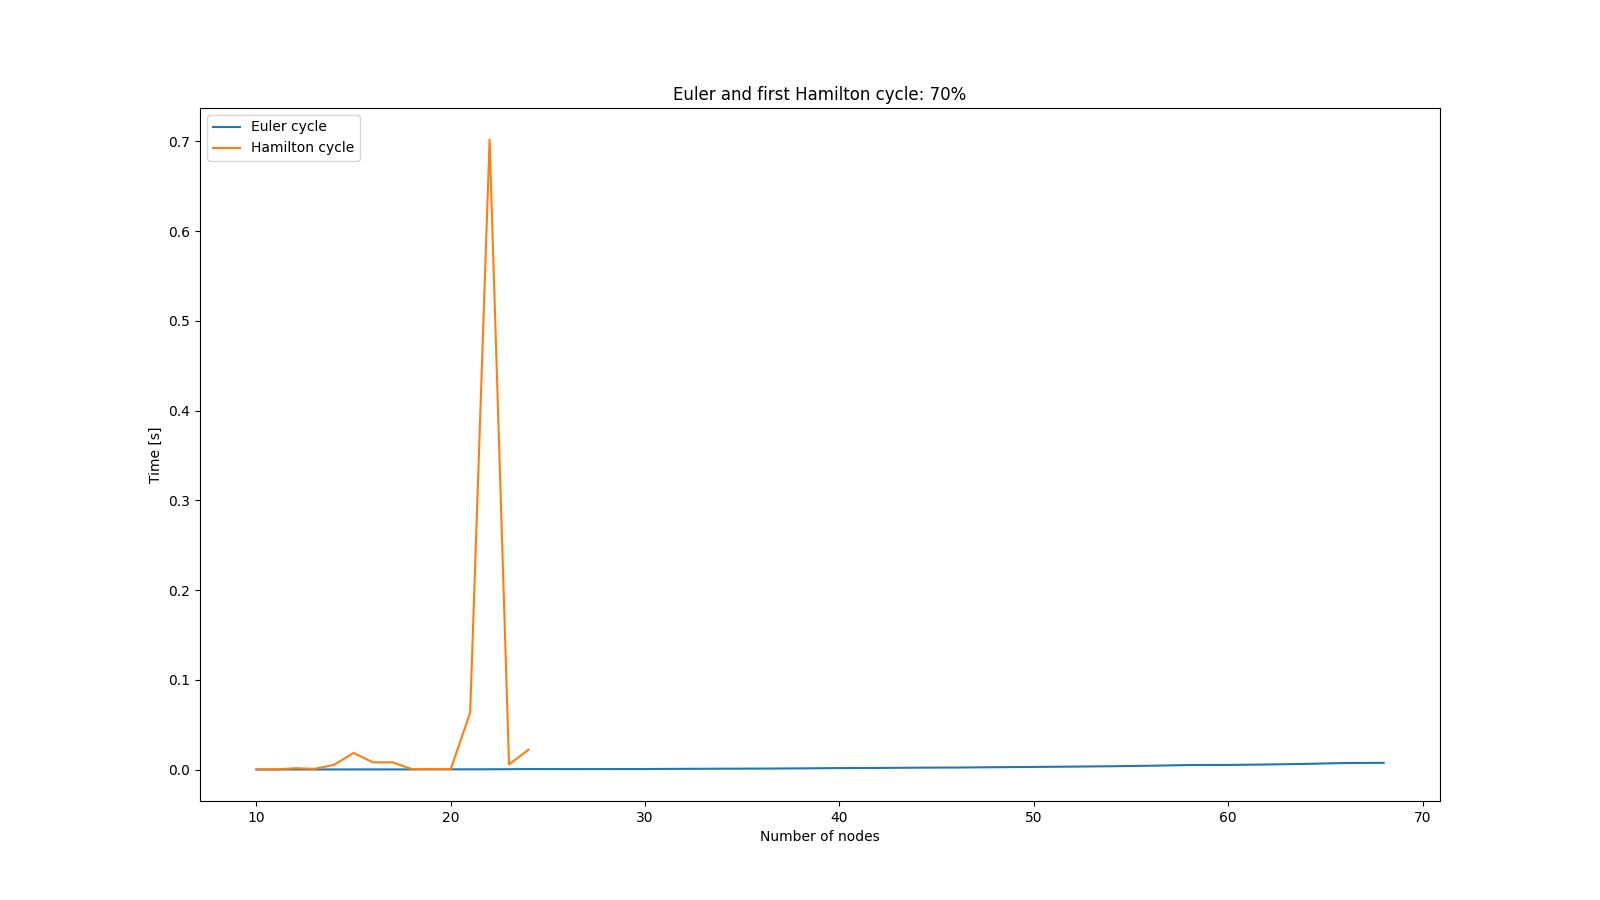
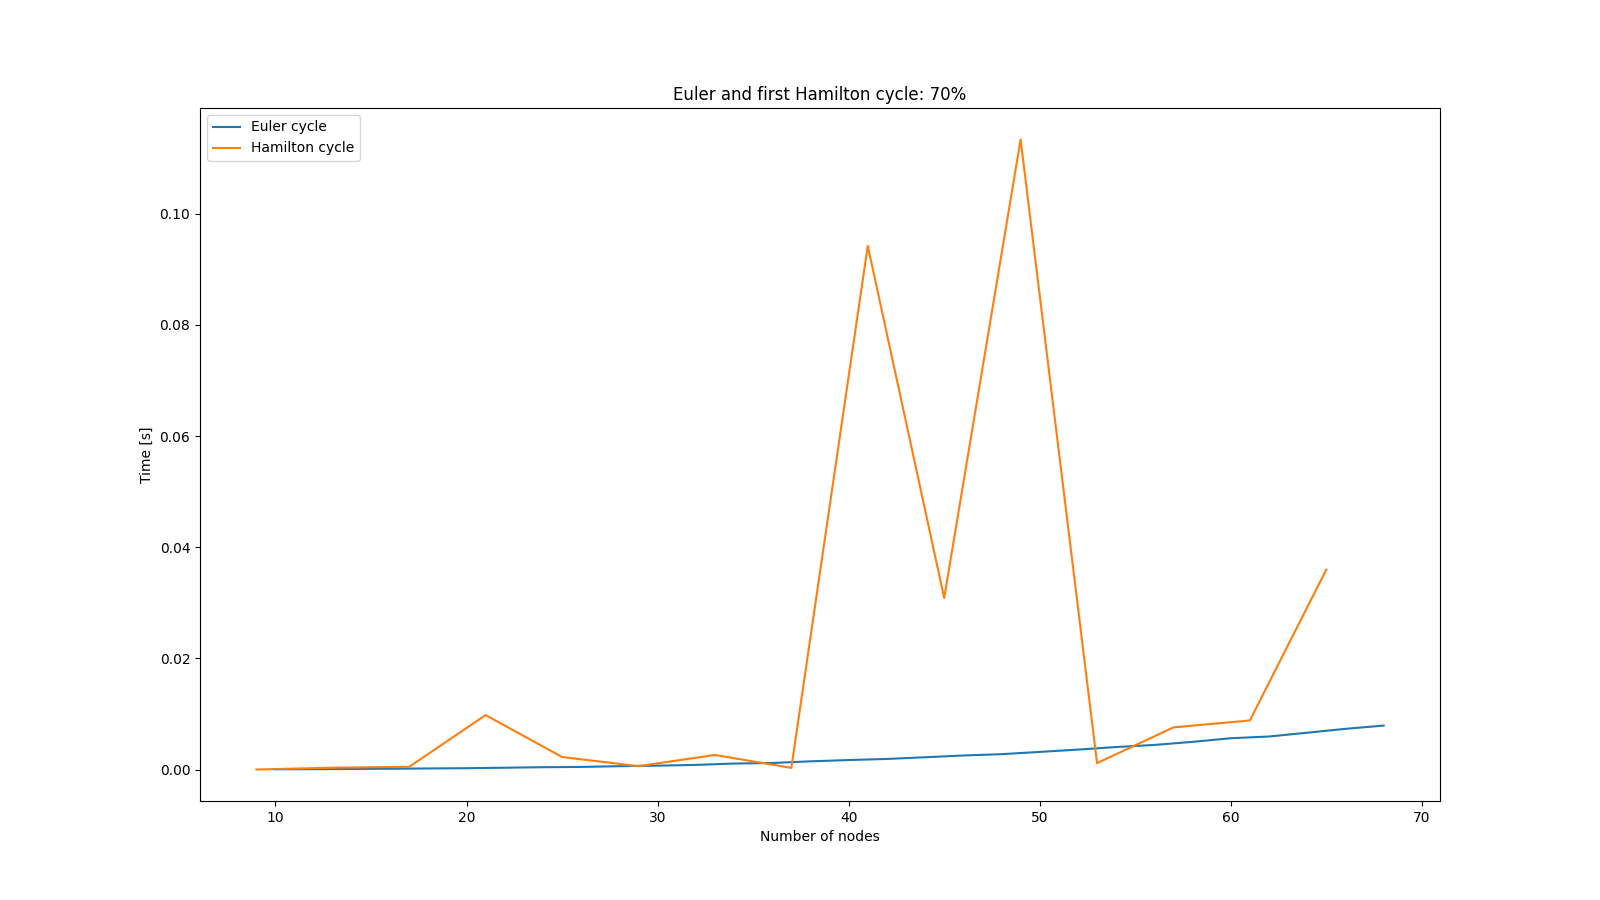
fix graph generation

diff --git a/cykle/functions.py b/cykle/functions.py
@@ -28,22 +28,34 @@ def make_undirected_graph(n, pr):
     G = [[0]*n for _ in range(n)]
     cycle = list(range(n))
     random.shuffle(cycle)
-    for v, w in zip(cycle[:-1], cycle[1:]):
+    z_l = list(zip(cycle[:-1], cycle[1:]))
+    for item in z_l:
+        v = item[0]
+        w = item[1]
         G[v][w] = 1
         G[w][v] = 1
     G[cycle[-1]][cycle[0]] = 1
     G[cycle[0]][cycle[-1]] = 1
+    z_l.append((cycle[-1], cycle[0]))
     current_edges = n
     expected_edges = pr*full_edges
     while current_edges < expected_edges:
         a, b, c = random.sample(cycle, 3)
+        if check_graph(z_l, a, b, c):
+            continue
         s = G[a][b] + G[a][c] + G[b][c]
         if s > 1:
             continue
         else:
             egdes_reverse(G, a, b, c)
-        current_edges += 3-s
+            current_edges += 3-s
     return G
+
+
+def check_graph(z_l, a, b, c):
+    if ((a, b) in z_l) or ((a, c) in z_l) or ((b, c) in z_l) or ((b, a) in z_l) or ((c, a) in z_l) or ((c, b) in z_l):
+        return True
+    return False
 
 
 def measure_time(n, pr, tries, function):

diff --git a/cykle/test_zad1_hamilton.py b/cykle/test_zad1_hamilton.py
@@ -52,15 +52,16 @@ for point in x_axis:
     print(f'Step {st}/{steps} {point} nodes {tries} tries')
     st += 1
 
-    pr = 0.3
-    y_axis_30.append(measure_time(point, pr, tries, hamilton))
+    # pr = 0.3
+    # y_axis_30.append(measure_time(point, pr, tries, hamilton))
     #y_axis_hamilton_30.append(measure_time(point, pr, tries, hamilton))
 
     pr = 0.7
     #y_axis_euler_70.append(measure_time(point, pr, tries, euler_cycle))
     y_axis_70.append(measure_time(point, pr, tries, hamilton))
 
-df = pd.DataFrame({"points":x_axis, "30": y_axis_30,"70": y_axis_70})
+#df = pd.DataFrame({"points":x_axis, "30": y_axis_30,"70": y_axis_70})
+df = pd.DataFrame({"points":x_axis, "30": x_axis,"70": y_axis_70})
 df.to_csv(os.path.join("wykresy", "zadanie_1", "data_hamilton.csv"))
 
 

diff --git a/cykle/draw_plots_zad1_v2.py b/cykle/draw_plots_zad1_v2.py
@@ -32,7 +32,7 @@ def draw_plot(nodes_eu, nodes_ham, eu, ham, title):
 eu = pd.read_csv(os.path.join("wykresy", "zadanie_1", "data_euler.csv"))
 ham = pd.read_csv(os.path.join("wykresy", "zadanie_1", "data_hamilton.csv"))
 
-draw_plot(eu["points"], ham["points"], eu["30"], ham["30"],
-          "30")
+#draw_plot(eu["points"], ham["points"], eu["30"], ham["30"],
+#          "30")
 draw_plot(eu["points"],ham["points"], eu["70"], ham["70"],
           "70")

diff --git a/cykle/draw_plot_zadanie_2.py b/cykle/draw_plot_zadanie_2.py
@@ -30,7 +30,7 @@ def draw_plot(nodes, t50, title):
 
 
 #eu = pd.read_csv(os.path.join("wykresy","zadanie 1","data_euler.csv"))
-ham = pd.read_csv(os.path.join("wykresy","zadanie 2","data_hamilton_all.csv"))
+ham = pd.read_csv(os.path.join("wykresy","zadanie_2","data_hamilton_all.csv"))
 
 draw_plot(ham["points"], ham["50"],
         "Hamilton")

diff --git a/cykle/test_zad2.py b/cykle/test_zad2.py
@@ -35,4 +35,4 @@ for point in x_axis:
     # y_axis_70.append(measure_time(point, pr, tries, hamilton_all))
 
 df = pd.DataFrame({"points": x_axis, "50": y_axis_50})
-df.to_csv(os.path.join("wykresy", "zadanie 2", "data_hamilton_all.csv"))
+df.to_csv(os.path.join("wykresy", "zadanie_2", "data_hamilton_all.csv"))

diff --git a/cykle/test_zad1_euler.py b/cykle/test_zad1_euler.py
@@ -61,4 +61,4 @@ for point in x_axis:
     y_axis_70.append(measure_time(point, pr, tries, euler_cycle))
 
 df = pd.DataFrame({"points":x_axis, "30": y_axis_30,"70": y_axis_70})
-df.to_csv(os.path.join("wykresy", "zadanie 1", "data_euler.csv"))
+df.to_csv(os.path.join("wykresy", "zadanie_1", "data_euler.csv"))

diff --git a/cykle/algorytmy.py b/cykle/algorytmy.py
@@ -61,7 +61,8 @@ def hamilton(G):
     if hamilton_inner():
         return V
     else:
-        return None
+        print("ERROR")
+        quit()
 
 def hamilton_all(G):
     V = []
